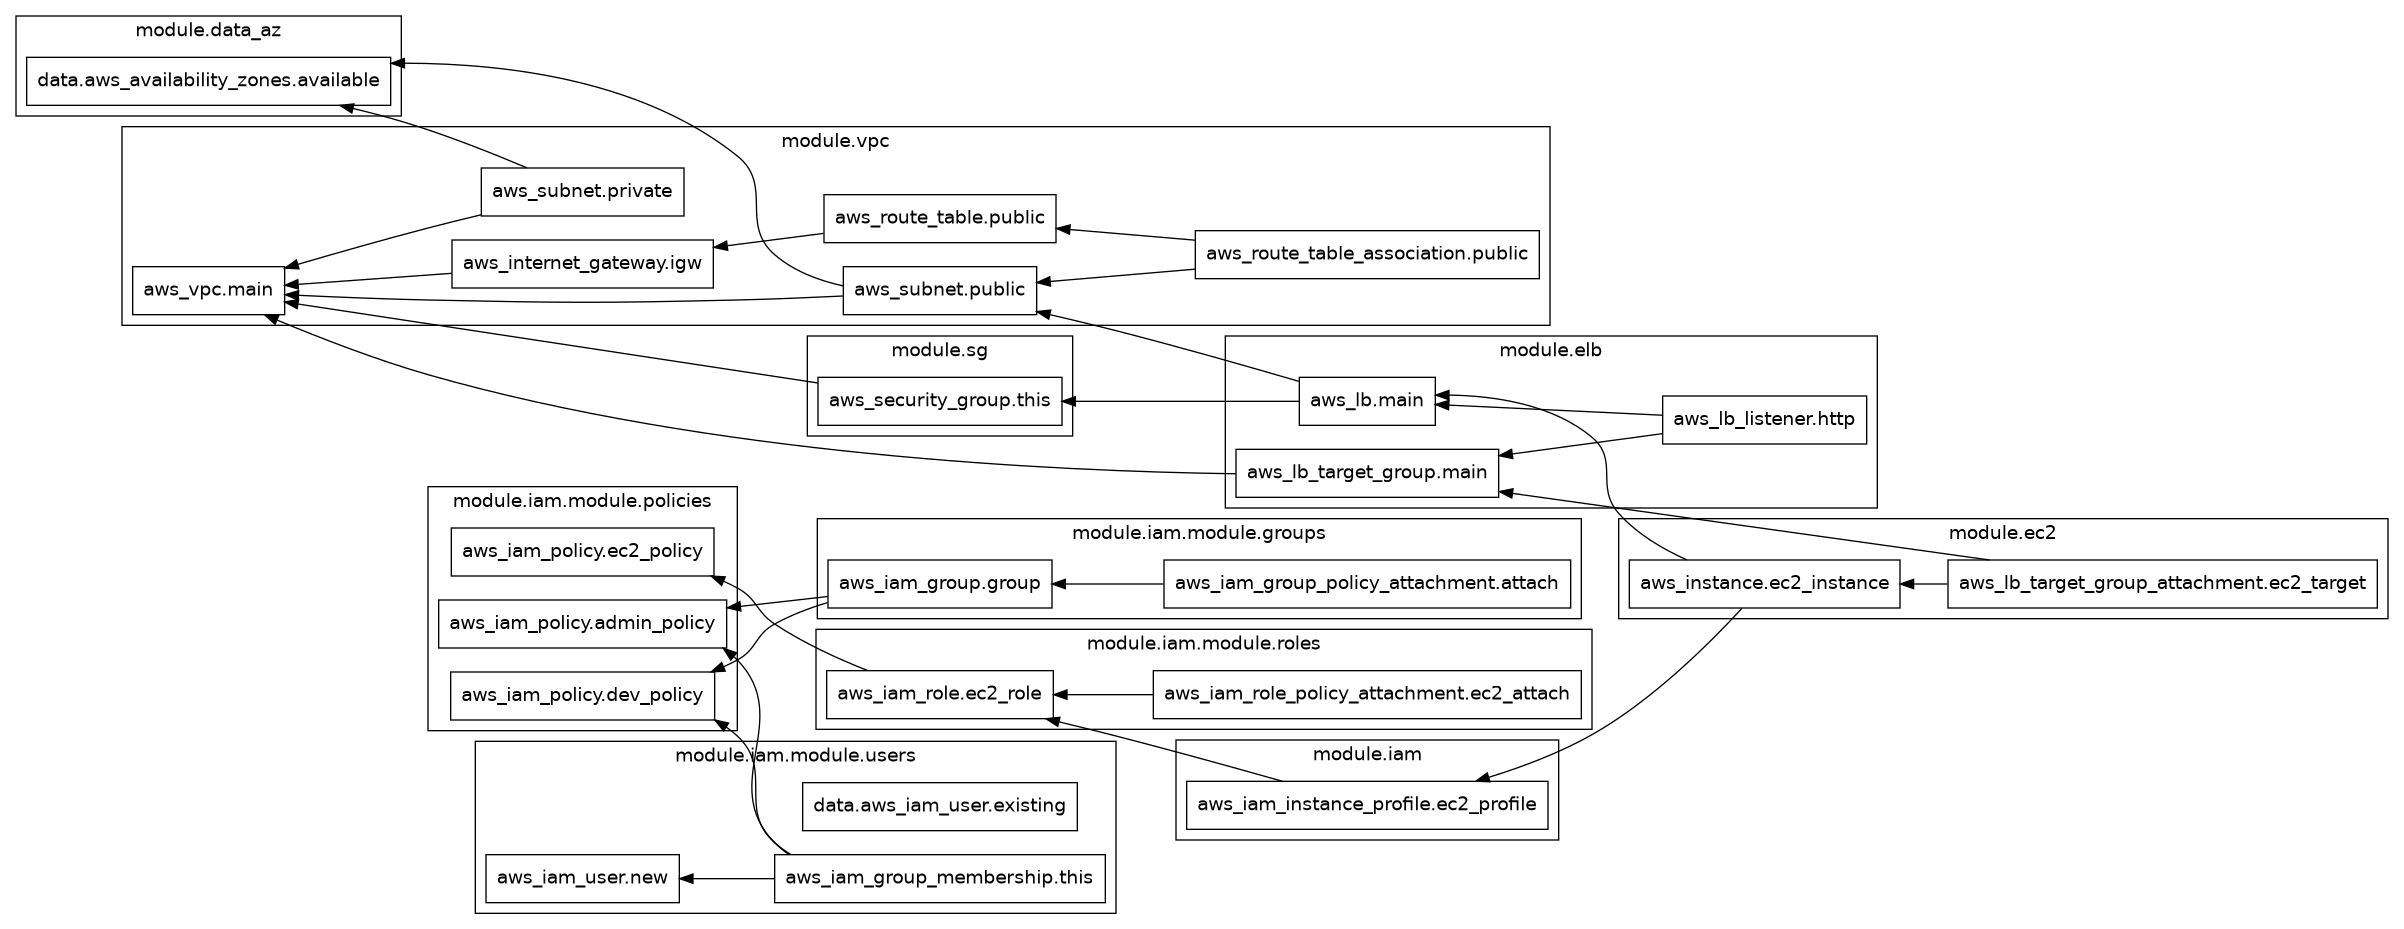
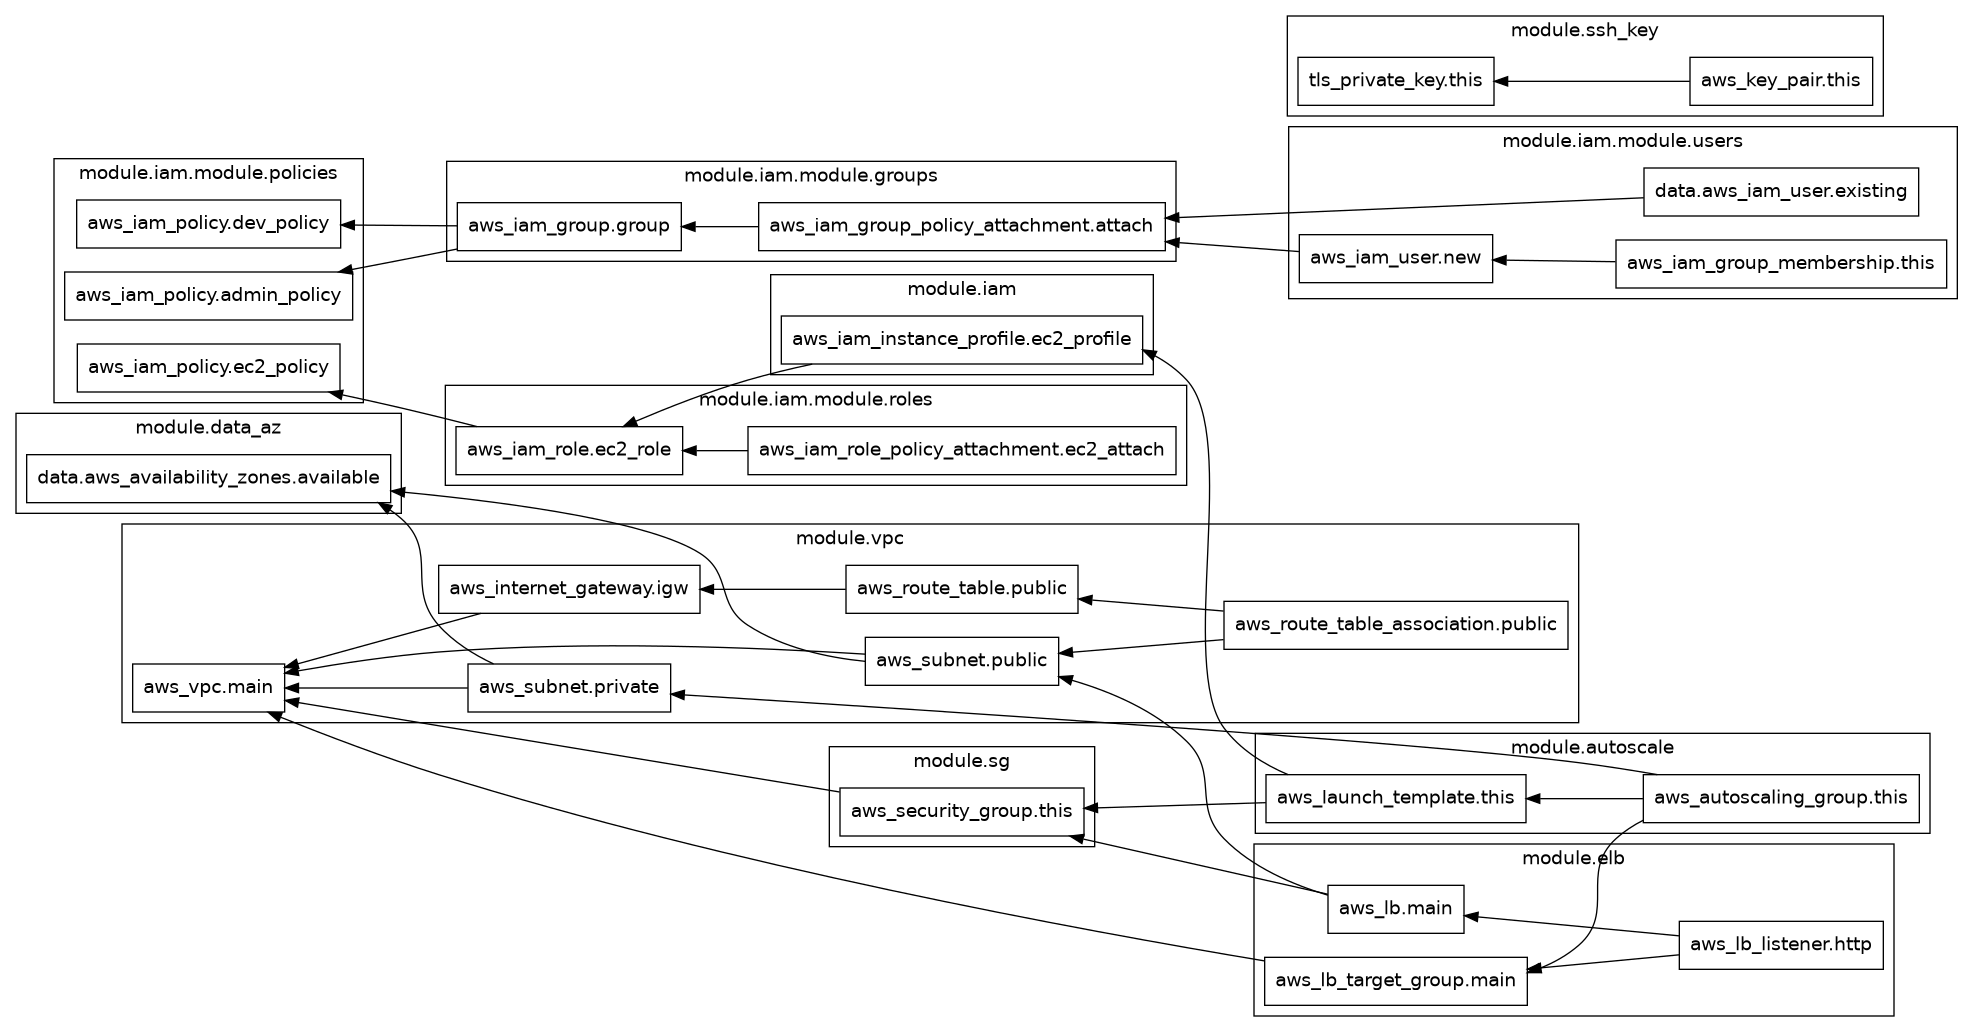
adding ssh keys and autoscaler module

diff --git a/README.md b/README.md
@@ -19,7 +19,7 @@ I am available for work, contracts, and job opportunities. Feel free to reach ou
 
 ## Project Overview
 
-This project demonstrates a **production-ready infrastructure deployment** on AWS using **Terraform**. It follows a **modular, reusable, and dynamic approach** to provision and configure resources, showcasing best practices for CI/CD and infrastructure as code (IaC).
+This project demonstrates a **production-ready infrastructure deployment** on AWS using **Terraform**. It follows a **modular, reusable, and dynamic approach** to provision and configure resources, showcasing best practices for CI/CD and infrastructure as code (IaC). Focus on Free Tier resources mostly or as low cost as possible. 
 
 ---
 
